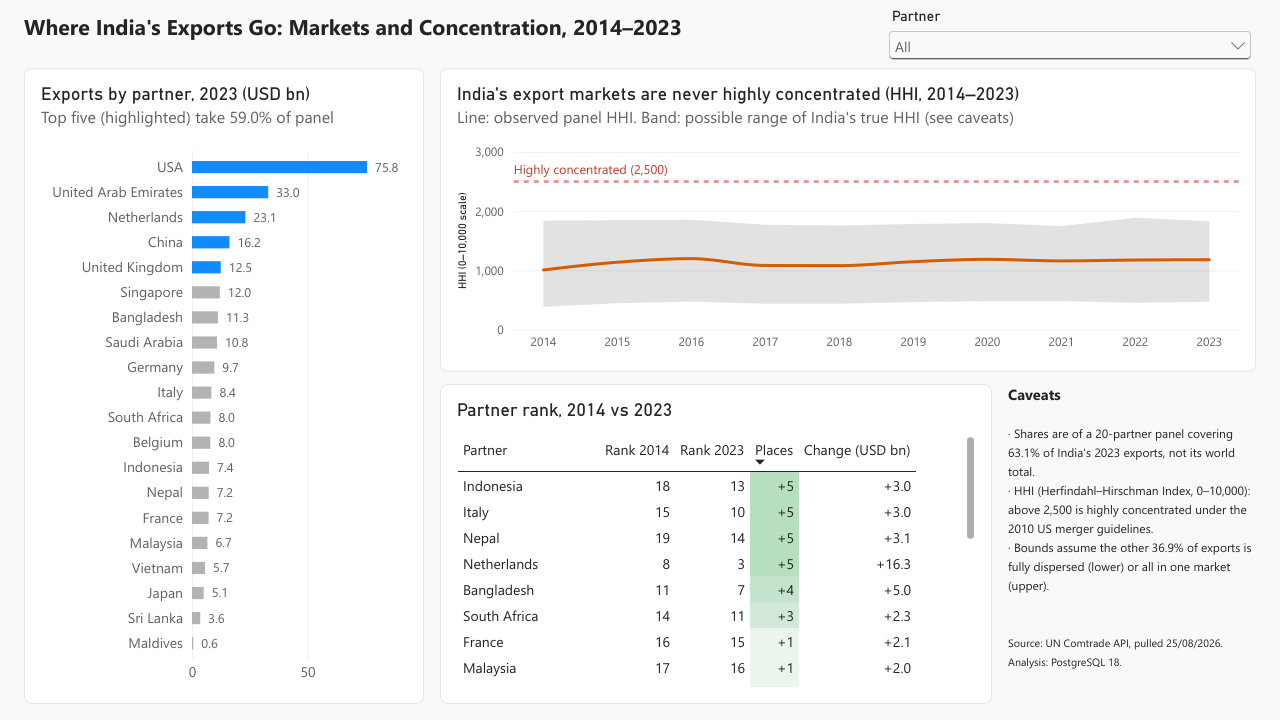
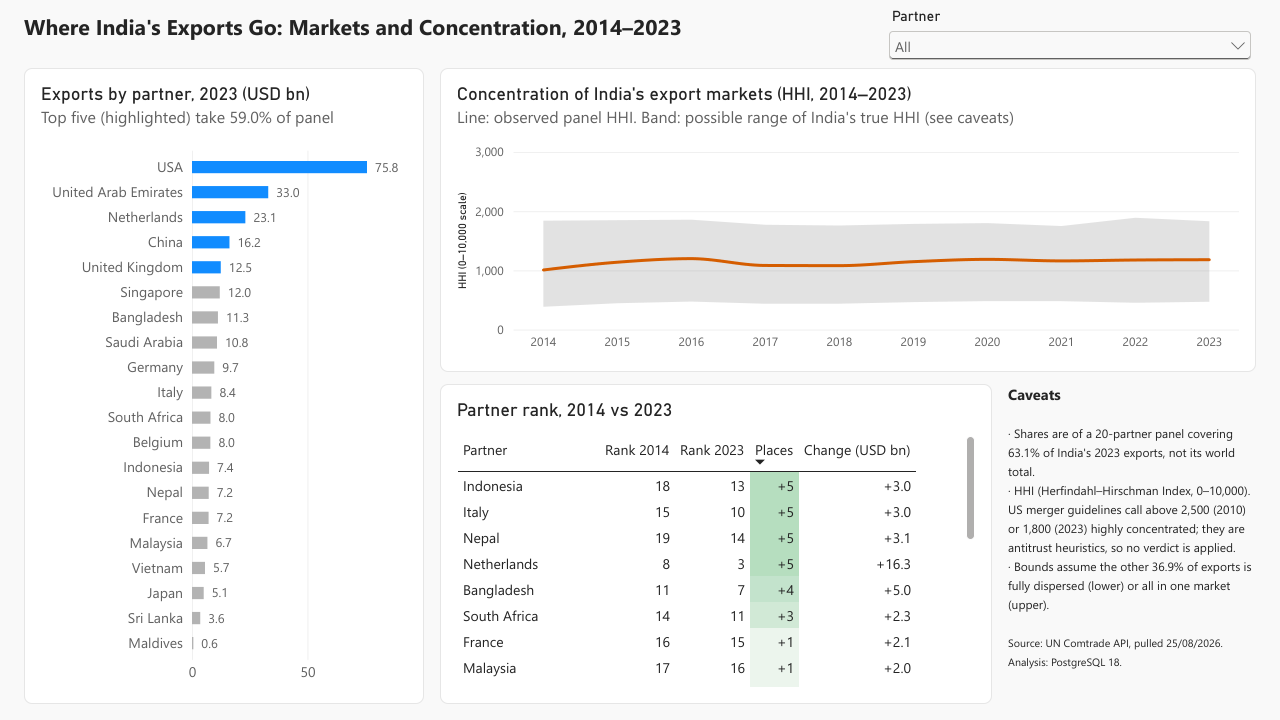
Drop concentration verdict from Markets page (#3)
The Markets page labelled India's export markets "never highly
concentrated" against the 2010 US merger guidelines' 2,500 line, while
the Sectors page states that no guideline verdict is applied. The 2023
guidelines use 1,800, which the upper bound of the possible range
passes in five of the ten years. The page now reports the index
without a verdict.

Dashboard
- Markets: neutral chart title, 2,500 reference line removed, caveat
  names both the 2010 and 2023 thresholds as antitrust heuristics
- Markets: partner tooltip reads "Partner"
- Markets and Trade Balance slicers: as re-saved by Power BI Desktop,
  with no selection stored

Screenshots
- Markets and Trade Balance regenerated; Trade Balance shows -43.7
  for electrical machinery and +6.1 for fish

Other
- CHANGELOG entry added

Verified: report refreshed from main in Power BI Desktop and all five
pages checked against data/processed; screenshots rendered from that
session's PDF export; copied files byte-identical to the checked set.
No SQL or data change, so no pipeline rebuild was run.

Changed region(s): [[0.7812, 0.7028, 0.9688, 0.8556], [0.3438, 0.1222, 0.8125, 0.1528], [0.4062, 0.2139, 0.5312, 0.2444]]

diff --git a/CHANGELOG.md b/CHANGELOG.md
@@ -6,6 +6,20 @@ corrections that changed a published claim are also in the findings, under
 [Corrections kept visible](insights/key_findings.md#corrections-kept-visible).
 Commit history has the rest.
 
+## 11/11/2026 — Markets page no longer applies a concentration verdict
+
+- **Dashboard.** The Markets page no longer applies a merger-guideline verdict
+  to India's export-market concentration, in line with the Sectors page. The
+  chart title is now "Concentration of India's export markets (HHI,
+  2014–2023)", previously "India's export markets are never highly
+  concentrated"; the 2,500 reference line is removed; and the caveat names
+  both US thresholds, 2,500 (2010 guidelines) and 1,800 (2023 guidelines), as
+  antitrust heuristics. The upper bound of the possible range passes 1,800 in
+  2014–2016, 2022 and 2023, as finding 7 states. The partner chart's tooltip
+  now reads "Partner" rather than "Partner Display".
+- **Screenshots.** The Markets and Trade Balance screenshots are regenerated.
+  Trade Balance now shows −43.7 for electrical machinery and +6.1 for fish.
+
 ## 10/11/2026 — dashboard slicer, opening page and trade-balance rounding
 
 - **Dashboard.** The Benchmark page's top-ten chart now follows the country
@@ -15,8 +29,7 @@ Commit history has the rest.
   to 3 dp (previously 2), so the dashboard's one-decimal figures round from the
   value rather than from a rounded figure. Electrical machinery (HS 85) shows
   −43.7, as in finding 18 (previously −43.8), and fish (HS 03) +6.1 (previously
-  +6.2). No other figure changes. The page 5 screenshot still shows the earlier
-  two figures.
+  +6.2). No other figure changes.
 
 ## 05/11/2026 — dashboard, raw-data notice and repository history
 
